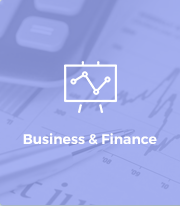
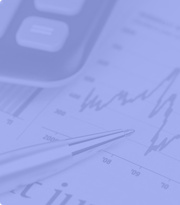
Completed the news section UI

diff --git a/public/css/style.css b/public/css/style.css
@@ -1,4 +1,7 @@
 @import url(https://fonts.googleapis.com/css?family=Open+Sans:400,300,600,700,800);
+html, body{
+	height: 100%;
+}
 body {
 	-webkit-font-smoothing: antialiased;
 	background-image: url(../images/site-background.png);
@@ -1500,9 +1503,9 @@ textarea{
 }
 
 /* ====================================================== news page ==================================================*/
-.newsCatHolder{
+.pg-middle-sign-wrapper .container-fluid .newsCatHolder{
 	margin-top: 100px;
-	padding: 0;
+	padding: 0 0 130px;
     width: calc(100% - 220px);
 }
 .pg-news-page-content{
@@ -1607,18 +1610,38 @@ textarea{
 	display: -webkit-flex;
 	display: flex;
 	margin-bottom: 25px;
+	cursor: pointer;
+}
+.pg-news-page-content-item.pg-box-shadow .pg-news-page-content-item-right-thumbs{
+	border: 2px solid transparent;
+	border-left: none;
+}
+.pg-news-page-content-item.pg-box-shadow.selected.business .pg-news-page-content-item-right-thumbs{
+    border-color: #96a3ef;
+}
+.pg-news-page-content-item.pg-box-shadow.selected.technology .pg-news-page-content-item-right-thumbs{
+    border-color: #c47777;
+}
+.pg-news-page-content-item.pg-box-shadow.selected.health .pg-news-page-content-item-right-thumbs{
+    border-color: #92a970;
+}
+.pg-news-page-content-item.pg-box-shadow.selected{
+	box-shadow: 0px 1px 10px -1px #000;
+}
+.pg-news-page-content-item.pg-box-shadow.selected .pg-news-page-content-item-right-thumbs{
+	border-left: none;
 }
 .pg-news-page-content-item-left-thumb{
     border: none;
     width: 20%;
     background-repeat: no-repeat;
     background-size: 100% 100%;
+	position: relative;
+	text-align: center;
 }
 .pg-news-page-content-item-left-thumb.thumb-1{
    background-image: url(../images/news-page-item-thumb-1.png);
 }
-
-
 .pg-news-page-content-item-left-thumb.business{
 	background-image: url(../images/business.png);
 }
@@ -1634,6 +1657,30 @@ textarea{
 .pg-news-page-content-item-left-thumb.entertainment{
     background-image: url(../images/entertainment.png);
 }
+.pg-news-page-content-item-left-thumb .cat-icon{
+	display: block;
+	margin: 35% auto 0;
+}
+.pg-news-page-content-item-left-thumb.business .cat-icon{
+	background: url("../images/news/business-icon.png") no-repeat;
+	width: 53px;
+	height: 52px;
+}
+.pg-news-page-content-item-left-thumb.technology .cat-icon{
+	background: url("../images/news/technology-icon.png") no-repeat;
+	width: 57px;
+	height: 55px;
+}
+.pg-news-page-content-item-left-thumb.health .cat-icon{
+	background: url("../images/news/health-icon.png") no-repeat;
+	width: 41px;
+	height: 41px;
+}
+.pg-news-page-content-item-left-thumb .cat-title{
+	font: 1em 'montserratsemi_bold', sans-serif;
+	margin: 10px 0 0;
+	color: #fff;
+}
 .pg-news-page-content-item-right-thumbs{
     background: #f2f6f9;
     border-left: 1px solid #7297aa;
@@ -1648,7 +1695,7 @@ textarea{
     padding: 0 9px;
 }
 .pg-news-item{
-    margin-top: 15px
+    margin: 15px 0 ;
 }
 .pg-news-item-top-row{
     display:inline-block;

diff --git a/public/app/pages/news/Index.js b/public/app/pages/news/Index.js
@@ -153,11 +153,12 @@ const NewsCategory = ({newsCategory,onCategorySelect})=>{
 
     let _selected = (newsCategory.is_favorite)?"selected":"";
     return (
-        <div className={"row row-clr pg-news-page-content-item pg-box-shadow "+ _selected}
+        <div className={"row row-clr pg-news-page-content-item pg-box-shadow "+ _selected + " " + _opt_class}
              onClick ={event=>onCategorySelect(newsCategory.is_favorite,newsCategory._id)}>
 
             <div className={"col-xs-2 pg-news-page-content-item-left-thumb "+_opt_class }>
-                {newsCategory.category}
+                <span className="cat-icon"></span>
+                <h3 className="cat-title">{newsCategory.category}</h3>
             </div>
             <div className="col-xs-10 pg-news-page-content-item-right-thumbs">
                 <div className="pg-news-page-content-item-right-inner-box">
@@ -175,18 +176,12 @@ const NewsCategory = ({newsCategory,onCategorySelect})=>{
 
 const NewsChannels = ({newsChannel})=>{
 
-    let _channel_img = "/images/news/"+newsChannel.channel_image;
+    let _channel_img = "/images/news/channels/"+newsChannel.channel_image;
     return (
         <div className="col-xs-2 pg-col-20 pg-news-item" >
             <div className="row row-clr pg-news-inner-full various">
-
                 <img src={_channel_img} alt="" className="img-responsive pg-pg-news-inner-img" />
-                <div className="col-xs-12 pg-news-inner-box-content">
-                    <h6 className="pg-news-inner-box-content-txt">{newsChannel.name}</h6>
-                </div>
             </div>
         </div>
     )
 }
-
-

diff --git a/controller/NewsController.js b/controller/NewsController.js
@@ -63,8 +63,12 @@ var NewsController ={
                     var _tmpOutPut = [];
                     for(var a=0;a<resultSet.news_list.length;a++){
                         var _tmpData = resultSet.news_list[a];
+
                         _tmpData.is_favorite = 0;
                         for(var i = 0; i< newsCategories.length;i++ ) {
+
+
+
                             if(newsCategories[i].category.toString() == _tmpData._id.toString()){
                                 _tmpData.is_favorite = 1;
                                 break;
@@ -102,7 +106,7 @@ var NewsController ={
 
         var userId = CurrentSession.id;
 
-        
+
     },
 
     /**
